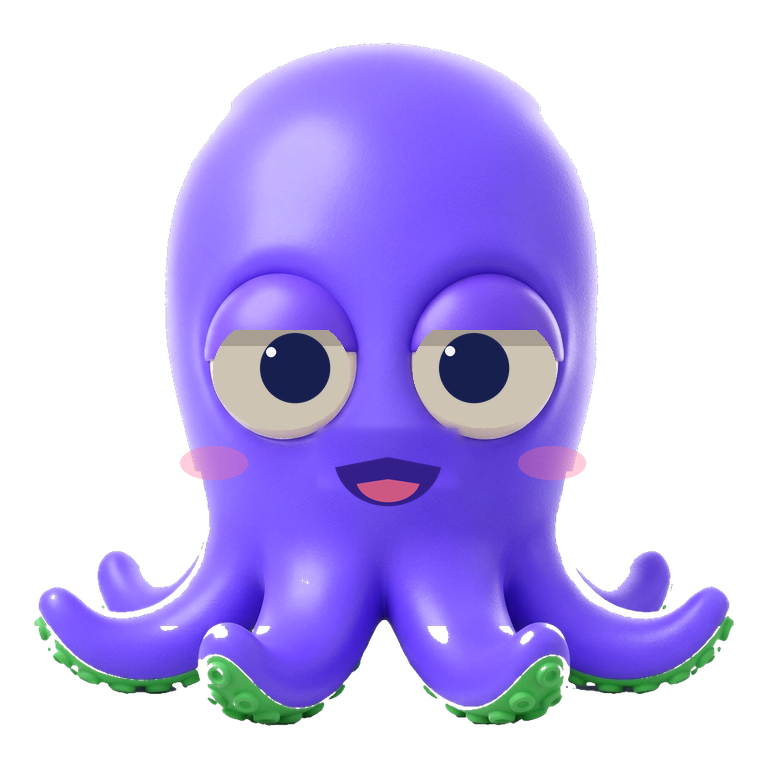
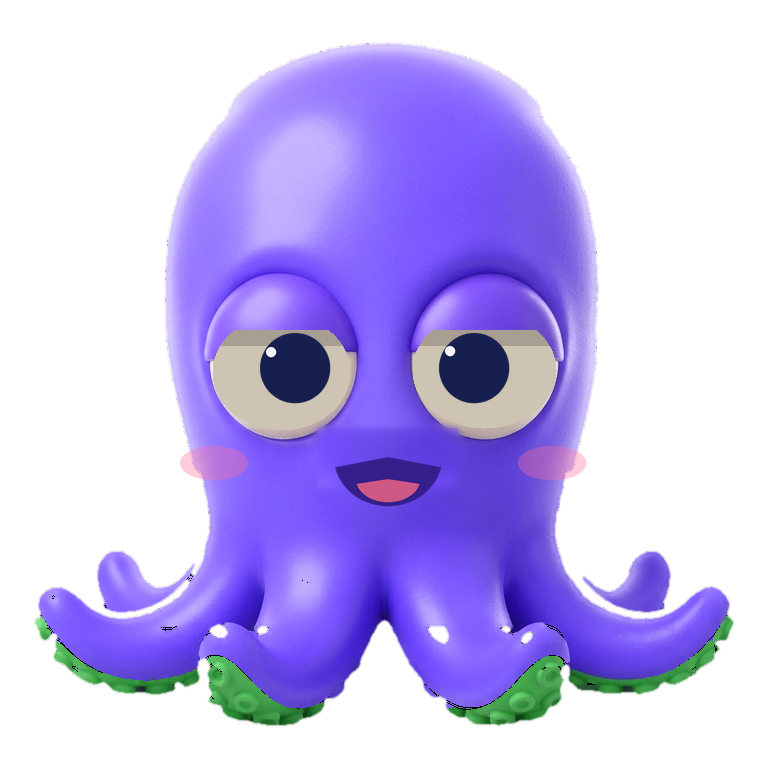
رمشة بتلات مراحل

diff --git a/components/OctopusMascot.jsx b/components/OctopusMascot.jsx
@@ -109,10 +109,19 @@ const PUPIL_SIZE = 91 / 768;
 const PUPIL_TRAVEL_X = 18 / 768;
 const PUPIL_TRAVEL_Y = 11 / 768;
 
-const BLINK_MS = 110;
-const BLINK_MIN_GAP_MS = 2500;
-const BLINK_MAX_GAP_MS = 6500;
-const DOUBLE_BLINK_CHANCE = 0.18;
+// A blink is three drawings, not an on/off switch. Swapping straight
+// between open and shut reads as a glitch - a frame of half-closed on
+// the way down and again on the way up is what makes it read as an
+// eyelid. It also closes faster than it opens, like a real one.
+const BLINK_CLOSE_MS = 30;
+const BLINK_HOLD_MS = 55;
+const BLINK_OPEN_MS = 45;
+const BLINK_MIN_GAP_MS = 2200;
+const BLINK_MAX_GAP_MS = 6000;
+const DOUBLE_BLINK_CHANCE = 0.22;
+// People very often blink as their eyes land somewhere new, so a glance
+// sometimes drags a blink along with it.
+const BLINK_AFTER_GLANCE_CHANCE = 0.35;
 // After this long without the pointer, he stops staring at it and starts
 // glancing around on his own.
 const GAZE_IDLE_AFTER_MS = 1200;
@@ -155,7 +164,7 @@ function springStep(pos, vel, target, stiffness, damping) {
  *   <OctopusMascot />
  */
 export default function OctopusMascot({
-  size = 120,
+  size = 96,
   // "neutral" is the live, blinking, eye-tracking rig. Any other mood is
   // a single still frame (public/hebr/<mood>.png) - used for a moment of
   // reaction, then handed back to neutral.
@@ -167,7 +176,8 @@ export default function OctopusMascot({
   const inkLayerRef = useRef(null);
   const pupilLRef = useRef(null);
   const pupilRRef = useRef(null);
-  const blinkRef = useRef(null);
+  const lidHalfRef = useRef(null);
+  const lidShutRef = useRef(null);
   const alive = mood === "neutral";
   const filterId = `octopus-ink-goo-${useId().replace(/:/g, "")}`;
   const [effectiveSize, setEffectiveSize] = useState(size);
@@ -179,7 +189,7 @@ export default function OctopusMascot({
   useEffect(() => {
     function updateSize() {
       const mobile = window.innerWidth < MOBILE_BREAKPOINT;
-      setEffectiveSize(mobile ? Math.min(size, 90) : size);
+      setEffectiveSize(mobile ? Math.min(size, 70) : size);
     }
     updateSize();
     window.addEventListener("resize", updateSize);
@@ -233,13 +243,23 @@ export default function OctopusMascot({
     };
 
     function doBlink(after) {
-      const blink = blinkRef.current;
-      if (!blink) return;
-      blink.style.opacity = "1";
+      const half = lidHalfRef.current;
+      const shut = lidShutRef.current;
+      if (!half || !shut) return;
+
+      half.style.opacity = "1";
       later(() => {
-        blink.style.opacity = "0";
-        after?.();
-      }, BLINK_MS);
+        half.style.opacity = "0";
+        shut.style.opacity = "1";
+        later(() => {
+          shut.style.opacity = "0";
+          half.style.opacity = "1";
+          later(() => {
+            half.style.opacity = "0";
+            after?.();
+          }, BLINK_OPEN_MS);
+        }, BLINK_HOLD_MS);
+      }, BLINK_CLOSE_MS);
     }
 
     function scheduleBlink() {
@@ -261,6 +281,8 @@ export default function OctopusMascot({
         ) {
           gazeTargetX = (Math.random() * 2 - 1) * 0.8;
           gazeTargetY = (Math.random() * 2 - 1) * 0.6;
+
+          if (Math.random() < BLINK_AFTER_GLANCE_CHANCE) later(doBlink, 90);
         }
         scheduleGlance();
       }, 1500 + Math.random() * 2500);
@@ -498,8 +520,14 @@ export default function OctopusMascot({
       outer.style.transform = `translate(${wanderX}px, ${wanderY}px)`;
 
       const bounceOffset = bounceScale - 1;
-      const scaleX = 1 + bounceOffset * BOUNCE_STRETCH_X;
-      const scaleY = 1 + bounceOffset * BOUNCE_STRETCH_Y;
+      // A slow breath under everything else: he swells a little and
+      // narrows a little, on a cycle far slower than the bob. Small
+      // enough that you would not name it if asked, which is the point -
+      // holding perfectly still is what made the still image read as a
+      // sticker.
+      const breathe = Math.sin(idlePhase * 0.31) * 0.012;
+      const scaleX = 1 + bounceOffset * BOUNCE_STRETCH_X - breathe * 0.6;
+      const scaleY = 1 + bounceOffset * BOUNCE_STRETCH_Y + breathe;
 
       wrap.style.transform = `perspective(600px) translateY(${idleBobY}px) rotateY(${
         curX + idleTiltX
@@ -792,20 +820,30 @@ export default function OctopusMascot({
                   />
                 ))}
 
-                <img
-                  ref={blinkRef}
-                  src="/hebr/blink.png"
-                  alt=""
-                  aria-hidden="true"
-                  draggable={false}
-                  style={{
-                    ...layerStyle,
-                    position: "absolute",
-                    inset: 0,
-                    opacity: 0,
-                    pointerEvents: "none",
-                  }}
-                />
+                {/* The eyelids are cut out as their own transparent
+                    layers rather than whole-body frames, so at half
+                    closed the pupil still shows underneath instead of
+                    the eye going blank for a frame. */}
+                {[
+                  ["half", lidHalfRef],
+                  ["shut", lidShutRef],
+                ].map(([stage, ref]) => (
+                  <img
+                    key={stage}
+                    ref={ref}
+                    src={`/hebr/lid-${stage}.png`}
+                    alt=""
+                    aria-hidden="true"
+                    draggable={false}
+                    style={{
+                      ...layerStyle,
+                      position: "absolute",
+                      inset: 0,
+                      opacity: 0,
+                      pointerEvents: "none",
+                    }}
+                  />
+                ))}
               </>
             )}
 

diff --git a/tools/make_rig.py b/tools/make_rig.py
@@ -6,7 +6,8 @@
 #
 #   body.png   - حبر كامل، بياض العين موجود، من غير بؤبؤ
 #   pupil.png  - بؤبؤ واحد لوحده (بينتسخ مرتين في الكود)
-#   blink.png  - نفس حبر بس العينين مقفولين، بيتحط فوق لجزء من الثانية
+#   lid-half   - الجفن نص نازل (طبقة شفافة، البؤبؤ باين تحتها)
+#   lid-shut   - الجفن مقفول تمامًا
 #
 # الفايدة إن البؤبؤ بقى عنصر مستقل - يتحرك ورا الماوس أو يبص حواليه
 # لوحده، والرمشة بقت تبديل صورة، مش ملف ٢٠٠ كيلوبايت.
@@ -39,17 +40,41 @@ d.ellipse([S(c - 24 - 5), S(c - 16 - 5), S(c - 24 + 5), S(c - 16 + 5)], fill=GLI
 lay.resize((box, box), Image.LANCZOS).save(f"{OUT}/pupil.png")
 print("pupil", box)
 
-# ---------------------------------------------------------- الرمشة
-# الجفن بينزل لحد ما يغطي العين كلها، وبعدين خط رفيع مكان الإغلاق.
-im = load()
-for k in "LR":
-    im = paint_eye(im, k, EYES[k]["lid"], pupil=False)
-    im = lower_lid(im, k, 76, copy_shade=True)
-lay, dr, merge = overlay(im)
-for k in "LR":
-    e = EYES[k]
-    y = e["lid"] + 62
-    curve(dr, arc_pts(e["cx"], y, e["rx"] * 1.5, 7), 6, (86, 58, 178, 255))
-im = merge(im)
-im.save(f"{OUT}/blink.png")
-print("blink")
+# ------------------------------------------------- الجفن كطبقة لوحده
+# الرمشة الأولى كانت صورة كاملة بتتحط فوق الكل، فالبؤبؤ كان بيختفي
+# تحتها. ده تمام لما العين مقفولة تمامًا، بس مش تمام لنص رمشة - هناك
+# الجفن المفروض يغطي النص الأعلى من العين والبؤبؤ يفضل باين تحته.
+#
+# فبنطلّع الجفن كطبقة شفافة: بنرسم العين والجفن نازل، وبنقارن بالجسم،
+# واللي اتغيّر بس هو اللي بيتحفظ. الباقي شفاف.
+import numpy as np
+
+body = np.array(Image.open(f"{OUT}/body.png").convert("RGBA")).astype(int)
+
+def lid_layer(drop, name):
+    im = load()
+    for k in "LR":
+        im = paint_eye(im, k, EYES[k]["lid"], pupil=False)
+        im = lower_lid(im, k, drop, copy_shade=True)
+    if drop > 60:                       # مقفولة: خط الإغلاق
+        lay, dr, merge = overlay(im)
+        for k in "LR":
+            e = EYES[k]
+            curve(dr, arc_pts(e["cx"], e["lid"] + 62, e["rx"] * 1.5, 7), 6,
+                  (86, 58, 178, 255))
+        im = merge(im)
+
+    a = np.array(im).astype(int)
+    changed = np.abs(a[..., :3] - body[..., :3]).max(axis=2) > 6
+    out = a.copy()
+    out[..., 3] = np.where(changed, 255, 0)
+    img = Image.fromarray(out.clip(0, 255).astype("uint8"), "RGBA")
+    # تنعيم حافة الطبقة عشان ما تبانش مقصوصة فوق العين
+    al = img.split()[3].filter(ImageFilter.GaussianBlur(1.2))
+    img.putalpha(al)
+    img.save(f"{OUT}/{name}.png")
+    print(name)
+
+from PIL import ImageFilter
+lid_layer(34, "lid-half")
+lid_layer(76, "lid-shut")

diff --git a/tools/clean_cutout.py b/tools/clean_cutout.py
@@ -1,0 +1,66 @@
+# تنضيف حواف حبر.
+#
+# الصورة الأصلية كانت على خلفية ورقية، والقص شال الخلفية بس ساب شريط
+# رفيع من لونها ملزوق في الحافة. القياس بيقوله بوضوح: متوسط لون
+# البكسلات على الحافة (138,148,185) - رمادي مايل للأخضر - بينما جسمه
+# الحقيقي (131,105,232) بنفسجي مشبع. الفرق ده هو "الهالة"، وهي السبب
+# اللي بيخلي الشكل يبان متقصقص بالمقص مش مرسوم.
+#
+# التنضيف تلات خطوات:
+#   1. اللون: كل بكسل قريب من الحافة بياخد لون أقرب بكسل جوّه الجسم -
+#      فالهالة بتتشال من غير ما الشكل يرفع.
+#   2. الشفافية: بنقلّص الحد شوية عشان الشريط الملوّث يقع بره.
+#   3. التنعيم: بلور خفيف على قناة الشفافية عشان الحافة تبقى ناعمة
+#      بدل ما تبقى مسننة.
+
+from PIL import Image
+import numpy as np
+from scipy import ndimage
+import os
+
+SRC = "public/hebr.png"
+RAW = "public/hebr-raw.png"
+
+# لو اشتغل السكريبت قبل كده، بنرجع للأصل مش بننضّف المنضّف.
+if os.path.exists(RAW):
+    src = RAW
+else:
+    src = SRC
+    Image.open(SRC).save(RAW)
+    print("kept the original at", RAW)
+
+im = Image.open(src).convert("RGBA")
+a = np.array(im).astype(np.float32)
+rgb, alpha = a[..., :3], a[..., 3]
+
+# ---- 1. اللون: امسح الهالة ----
+core = alpha >= 240
+core = ndimage.binary_erosion(core, iterations=3)
+
+# لكل بكسل، فهرس أقرب بكسل "جوّه" الجسم
+_, (iy, ix) = ndimage.distance_transform_edt(~core, return_indices=True)
+clean_rgb = rgb[iy, ix]
+
+# الجوّه يفضل زي ما هو؛ الحافة بس هي اللي بتاخد اللون النضيف
+band = ~core & (alpha > 0)
+rgb[band] = clean_rgb[band]
+
+# ---- 2 + 3. الشفافية: قلّص، سوّي الحدّ، وبعدين نعّم ----
+# القص الأصلي ساب نتوءات صغيرة في الكونتور - الجسم المفروض منحنى
+# أملس، والنتوءات دي هي اللي بتخليه يبان "مقصوص غلط". الإغلاق
+# المورفولوجي بيسدّ التقويرات والوسيط بيشيل البروزات، والاتنين
+# بيشتغلوا على الشكل مش على اللون فالتفاصيل مابتضيعش.
+mask = alpha >= 190
+mask = ndimage.binary_closing(mask, structure=np.ones((5, 5)))
+mask = ndimage.median_filter(mask.astype(np.uint8), size=5).astype(bool)
+mask = mask.astype(np.float32)
+soft = ndimage.gaussian_filter(mask, 0.9)
+new_alpha = np.clip(soft * 1.18, 0, 1) * 255.0
+
+out = np.dstack([rgb, new_alpha]).clip(0, 255).astype(np.uint8)
+Image.fromarray(out, "RGBA").save(SRC)
+
+edge = (new_alpha > 40) & (new_alpha < 250)
+print("cleaned. edge pixels:", int(edge.sum()))
+print("edge rgb now:", rgb[edge].mean(0).round(1))
+print("inner rgb    :", rgb[ndimage.binary_erosion(core, iterations=4)].mean(0).round(1))
